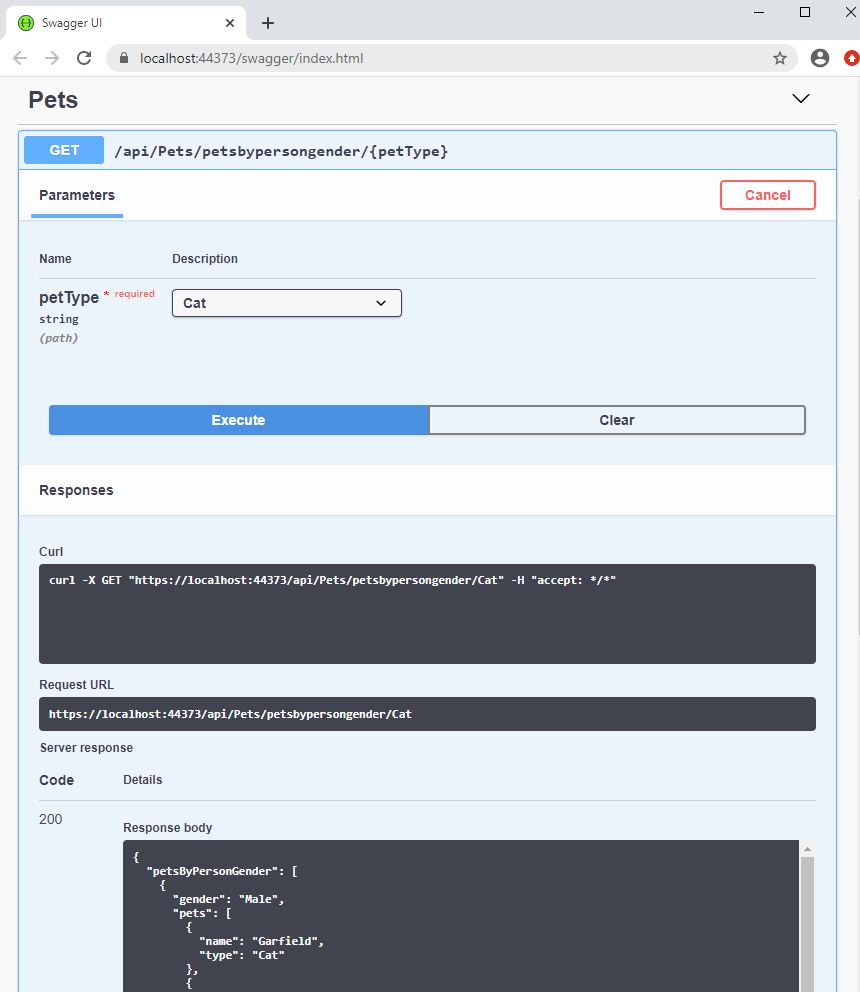
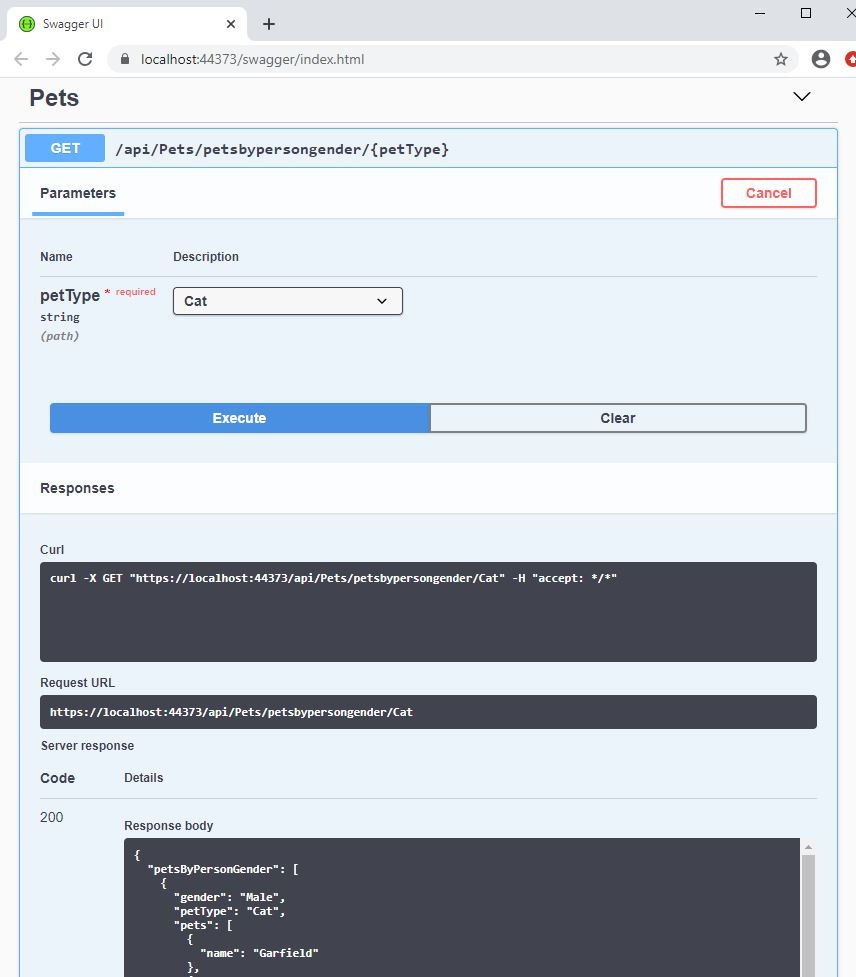
separated models and entities.

diff --git a/agl-ui/src/app/components/agl-pets/agl-pets.component.html b/agl-ui/src/app/components/agl-pets/agl-pets.component.html
@@ -25,7 +25,7 @@
                 <table class="table table-dark table-hover" @fade>
                   <tr>
                     <th>
-                      Owner's gender {{ genders[petsByPersonGender.gender] }}
+                      Owner's gender {{ petsByPersonGender.gender }}
                     </th>
                   </tr>
                   <tr *ngFor="let pet of petsByPersonGender.pets">

diff --git a/agl-ui/src/app/models/models.ts b/agl-ui/src/app/models/models.ts
@@ -4,6 +4,7 @@ export class PetsByPersonGenderCollection {
 
 export class PetsByPersonGender {
     gender: Gender;
+    type: PetType;
     pets: Pet[];
 }
 
@@ -14,8 +15,7 @@ export enum Gender {
 
 export class Pet
 {
-    name: string;
-    type: PetType;
+    name: string;    
 }
 
 export enum PetType

diff --git a/agl-ui/src/app/components/agl-pets/agl-pets.component.ts b/agl-ui/src/app/components/agl-pets/agl-pets.component.ts
@@ -35,7 +35,6 @@ export class AglPetsComponent implements OnInit {
   async ngOnInit() {
     try {
       this.petsByPersonGender = null;
-      this.genders = [Gender[Gender.Male], Gender[Gender.Female]];      
 
       this.getPets(PetType.Dog);
     }

diff --git a/AGL.API/AGL.UnitTests/BusinessLogicTests.cs b/AGL.API/AGL.UnitTests/BusinessLogicTests.cs
@@ -1,4 +1,5 @@
 using AGL.Application;
+using AGL.Models;
 using AGL.Entities;
 using AGL.Repository;
 using NSubstitute;
@@ -21,102 +22,102 @@ namespace AGL.UnitTests
                 new Person
                 {
                     Name = "Bob",
-                    Gender = Gender.Male,
+                    Gender = Entities.Gender.Male,
                     Age = 23,
                     Pets = new List<Pet>
                     {
                         new Pet
                         {
                             Name = "Garfield",
-                            Type = PetType.Cat
+                            Type = Entities.PetType.Cat
                         },
                         new Pet
                         {
                             Name = "Fido",
-                            Type = PetType.Dog
+                            Type = Entities.PetType.Dog
                         }
                     }
                 },
                 new Person
                 {
                     Name = "Jennifer",
-                    Gender = Gender.Female,
+                    Gender = Entities.Gender.Female,
                     Age = 18,
                     Pets = new List<Pet>
                     {
                         new Pet
                         {
                             Name = "Garfield",
-                            Type = PetType.Cat
+                            Type = Entities.PetType.Cat
                         }
                     }
                 },
                 new Person
                 {
                     Name = "Steve",
-                    Gender = Gender.Male,
+                    Gender = Entities.Gender.Male,
                     Age = 45,
                     Pets = null
                 },
                 new Person
                 {
                     Name = "Fred",
-                    Gender = Gender.Male,
+                    Gender = Entities.Gender.Male,
                     Age = 40,
                     Pets = new List<Pet>
                     {
                         new Pet
                         {
                             Name = "Tom",
-                            Type = PetType.Cat
+                            Type = Entities.PetType.Cat
                         },
                         new Pet
                         {
                             Name = "Max",
-                            Type = PetType.Cat
+                            Type = Entities.PetType.Cat
                         },
                         new Pet
                         {
                             Name = "Sam",
-                            Type = PetType.Dog
+                            Type = Entities.PetType.Dog
                         },
                         new Pet
                         {
                             Name = "Jim",
-                            Type = PetType.Cat
+                            Type = Entities.PetType.Cat
                         }
                     }
                 },
                 new Person
                 {
                     Name = "Samantha",
-                    Gender = Gender.Female,
+                    Gender = Entities.Gender.Female,
                     Age = 40,
                     Pets = new List<Pet>
                     {
                         new Pet
                         {
                             Name = "Tabby",
-                            Type = PetType.Cat
+                            Type = Entities.PetType.Cat
                         }
                     }
                 },
                 new Person
                 {
                     Name = "Alice",
-                    Gender = Gender.Female,
+                    Gender = Entities.Gender.Female,
                     Age = 64,
                     Pets = new List<Pet>
                     {
                         new Pet
                         {
                             Name = "Simba",
-                            Type = PetType.Cat
+                            Type = Entities.PetType.Cat
                         },
                         new Pet
                         {
                             Name = "Nemo",
-                            Type = PetType.Fish
+                            Type = Entities.PetType.Fish
                         }
                     }
                 },
@@ -126,17 +127,19 @@ namespace AGL.UnitTests
             var petsRepository = Substitute.For<IPetsRepository>();
             petsRepository.GetPersonAndPets().Returns(personAndPets);
 
+            var mapperService = new MapperService();
+
             //Create PetsManager instance
-            IPetsManager petsManager = new PetsManager(petsRepository);
+            IPetsManager petsManager = new PetsManager(petsRepository, mapperService);
 
             //Call method to be tested. This method contains the business logic.
-            var catsByPersonGender = petsManager.GetPetsByPersonGender(PetType.Cat).Result;            
+            var catsByPersonGender = petsManager.GetPetsByPersonGender(Models.PetType.Cat).Result;            
 
             //Check that there are 2 genders in the collection
             Assert.True(catsByPersonGender.PetsByPersonGender.Count == 2);
 
             //Check Cats belonging to Male persons - alphabetically ordered
-            Assert.True(catsByPersonGender.PetsByPersonGender.First().Gender == Gender.Male);
+            Assert.True(catsByPersonGender.PetsByPersonGender.First().Gender == Models.Gender.Male);
             Assert.True(catsByPersonGender.PetsByPersonGender.First().Pets.Count() == 4);
             Assert.True(catsByPersonGender.PetsByPersonGender.First().Pets.ElementAt(0).Name == "Garfield");
             Assert.True(catsByPersonGender.PetsByPersonGender.First().Pets.ElementAt(1).Name == "Jim");
@@ -144,7 +147,7 @@ namespace AGL.UnitTests
             Assert.True(catsByPersonGender.PetsByPersonGender.First().Pets.ElementAt(3).Name == "Tom");
 
             //Check Cats belonging to Female persons - alphabetically ordered
-            Assert.True(catsByPersonGender.PetsByPersonGender.Last().Gender == Gender.Female);
+            Assert.True(catsByPersonGender.PetsByPersonGender.Last().Gender == Models.Gender.Female);
             Assert.True(catsByPersonGender.PetsByPersonGender.Last().Pets.Count() == 3);
             Assert.True(catsByPersonGender.PetsByPersonGender.Last().Pets.ElementAt(0).Name == "Garfield");
             Assert.True(catsByPersonGender.PetsByPersonGender.Last().Pets.ElementAt(1).Name == "Simba");

diff --git a/AGL.API/AGL.Application/PetsManager.cs b/AGL.API/AGL.Application/PetsManager.cs
@@ -1,4 +1,5 @@
 using AGL.Entities;
+using AGL.Models;
 using AGL.Repository;
 using System;
 using System.Linq;
@@ -13,6 +14,7 @@ namespace AGL.Application
     {
         private readonly Person[] _persons;
         private readonly IPetsRepository _petsRepository;
+        private readonly IMapperService _mapperService;
 
         public string Url { get; set; }        
 
@@ -20,9 +22,10 @@ namespace AGL.Application
         /// Constructor
         /// </summary>
         /// <param name="petsRepository">The injected pets repository</param>
-        public PetsManager(IPetsRepository petsRepository)
+        public PetsManager(IPetsRepository petsRepository, IMapperService mapperService)
         {
             _petsRepository = petsRepository ?? throw new ArgumentNullException(nameof(petsRepository));
+            _mapperService = mapperService ?? throw new ArgumentNullException(nameof(petsRepository));
         }
 
         public void Dispose()
@@ -35,12 +38,14 @@ namespace AGL.Application
         /// <param name="petType">The Pet type</param>
         /// <remarks>Throws ArgumentNullException</remarks>
         /// <returns><see cref="Task{PetsByPersonGenderCollection}"/></returns>
-        public async Task<PetsByPersonGenderCollection> GetPetsByPersonGender(PetType petType)
+        public async Task<PetsByPersonGenderCollectionModel> GetPetsByPersonGender(Models.PetType petType)
         {
-            var persons = await _petsRepository.GetPersonAndPets();
+            var entitiesPetType = (Entities.PetType)Enum.Parse(typeof(Entities.PetType), petType.ToString());
 
+            var persons = await _petsRepository.GetPersonAndPets();
+            
             //LINQ Query to get Pets by Person's gender and Pet type
-            return new PetsByPersonGenderCollection()
+            var entities = new PetsByPersonGenderCollection()
             {
                 PetsByPersonGender = persons.ToList()
                                            .Where(person => person.Pets != null)
@@ -48,9 +53,15 @@ namespace AGL.Application
                                            .Select(g => new PetsByPersonGender
                                            {
                                                Gender = g.Key,
-                                               Pets = g.SelectMany(person => person.Pets.Where(pet => pet.Type == petType)).OrderBy(x => x.Name)
+                                               PetType = entitiesPetType,
+                                               Pets = g.SelectMany(person => person.Pets.Where(pet => pet.Type == entitiesPetType)).OrderBy(x => x.Name)
                                            }).ToList()
             };
+
+            //Map entities to models
+            var models = _mapperService.Map(entities);
+
+            return models;
         }
     }
 }

diff --git a/AGL.API/AGL.Application/MapperService.cs b/AGL.API/AGL.Application/MapperService.cs
@@ -1,0 +1,31 @@
+using AGL.Entities;
+using AGL.Models;
+using AutoMapper;
+
+namespace AGL.Application
+{
+    public interface IMapperService
+    {
+        PetsByPersonGenderCollectionModel Map(PetsByPersonGenderCollection petsByPersonGenderCollection);
+    }
+
+    public class MapperService : IMapperService
+    {
+        private readonly IMapper _mapper;
+
+        public MapperService()
+        {
+            var mapperConfig = new MapperConfiguration(mc =>
+            {
+                mc.AddProfile(new MappingProfile());
+            });
+
+            _mapper = mapperConfig.CreateMapper();
+        }
+
+        public PetsByPersonGenderCollectionModel Map (PetsByPersonGenderCollection petsByPersonGenderCollection)
+        {
+            return _mapper.Map<PetsByPersonGenderCollection, PetsByPersonGenderCollectionModel>(petsByPersonGenderCollection);
+        }
+    }
+}

diff --git a/AGL.API/AGL.Application/MappingProfile.cs b/AGL.API/AGL.Application/MappingProfile.cs
@@ -1,0 +1,21 @@
+using System;
+using System.Collections.Generic;
+using System.Text;
+using AGL.Entities;
+using AGL.Models;
+using AutoMapper;
+
+namespace AGL.Application
+{
+    public class MappingProfile : Profile
+    {
+        public MappingProfile()
+        {
+            CreateMap<PetsByPersonGenderCollection, PetsByPersonGenderCollectionModel>();
+
+            CreateMap<PetsByPersonGender, PetsByPersonGenderModel>();
+
+            CreateMap<Pet, PetModel>();
+        }
+    }
+}

diff --git a/AGL.API/AGL.Models/PetsByPersonGenderModel.cs b/AGL.API/AGL.Models/PetsByPersonGenderModel.cs
@@ -1,16 +1,16 @@
 using System.Collections.Generic;
 
-namespace AGL.Entities
+namespace AGL.Models
 {
     /// <summary>
     /// Class Pets By Person Gender
     /// </summary>
-    public class PetsByPersonGender
+    public class PetsByPersonGenderModel
     {
         public Gender Gender { get; set; }
 
         public PetType PetType { get; set; }
 
-        public IEnumerable<Pet> Pets { get; set; }
+        public IEnumerable<PetModel> Pets { get; set; }
     }
 }

diff --git a/AGL.API/AGL.Application/IPetsManager.cs b/AGL.API/AGL.Application/IPetsManager.cs
@@ -1,4 +1,4 @@
-using AGL.Entities;
+using AGL.Models;
 using System;
 using System.Threading.Tasks;
 
@@ -9,6 +9,6 @@ namespace AGL.Application
     /// </summary>
     public interface IPetsManager : IDisposable
     {
-        Task<PetsByPersonGenderCollection> GetPetsByPersonGender(PetType petType);
+        Task<PetsByPersonGenderCollectionModel> GetPetsByPersonGender(PetType petType);
     }
 }

diff --git a/AGL.API/AGL.WebApi/Startup.cs b/AGL.API/AGL.WebApi/Startup.cs
@@ -36,6 +36,7 @@ namespace AGL.WebApi
             //add dependency injection
             services.AddScoped<IPetsRepository, PetsRepository>(x => new PetsRepository { Url = apiUrl });
             services.AddScoped<IPetsManager, PetsManager>();
+            services.AddScoped<IMapperService, MapperService>();
 
             //Add CORS support
             services.AddCors();

diff --git a/AGL.API/AGL.Models/PetsByPersonGenderCollectionModel.cs b/AGL.API/AGL.Models/PetsByPersonGenderCollectionModel.cs
@@ -1,0 +1,9 @@
+using System.Collections.Generic;
+
+namespace AGL.Models
+{
+    public class PetsByPersonGenderCollectionModel
+    {
+        public ICollection<PetsByPersonGenderModel> PetsByPersonGender { get; set; }
+    }
+}

diff --git a/AGL.API/AGL.WebApi/Controllers/PetsController.cs b/AGL.API/AGL.WebApi/Controllers/PetsController.cs
@@ -1,5 +1,5 @@
 using AGL.Application;
-using AGL.Entities;
+using AGL.Models;
 using Microsoft.AspNetCore.Mvc;
 using System;
 using System.Threading.Tasks;
